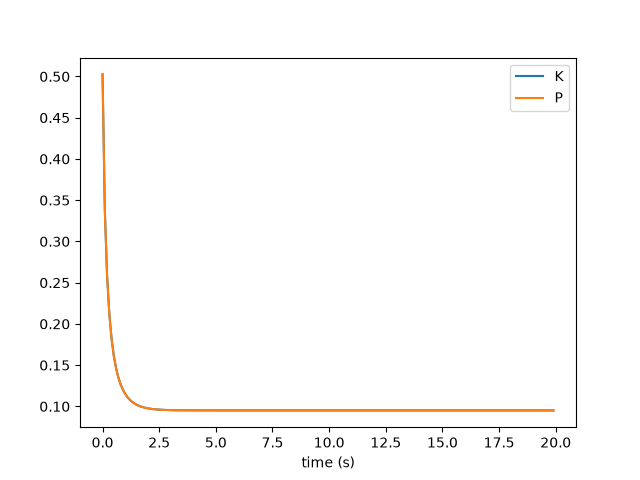
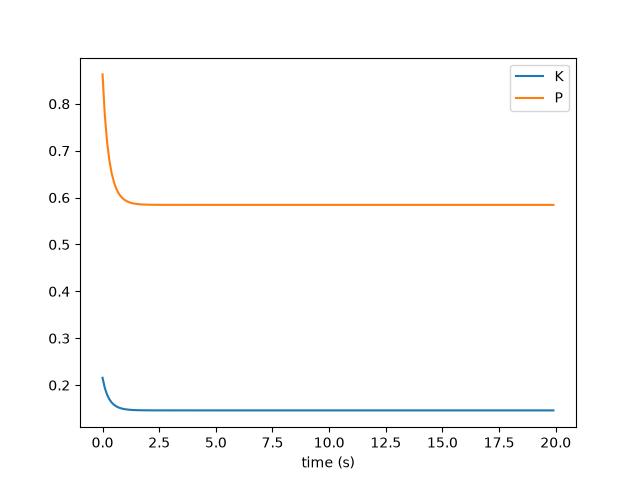
Fuse accelerometer and GPS and add RMSE comparison

diff --git a/kalman.py b/kalman.py
@@ -8,10 +8,14 @@ position = 0.0
 velocity = 0.0
 Kp = 2.0
 Kd = 1.5
-velocity_error = 0.1
-Q = 0.01
-R = 1.0
+filter_velocity = 0.0
+Q = 0.1
+R = 4.0
 Ks = np.zeros(steps)
+accel_bias = 0.05
+accel_velocity = 0.0
+accel_position = 0.0
+accel_positions = np.zeros(steps)
 
 times = np.zeros(steps)
 true_positions = np.zeros(steps)
@@ -27,12 +31,16 @@ for i in range(steps):
     acceleration = Kp * error - Kd * velocity
     velocity += acceleration * dt
     position += velocity * dt
+    sensed_acceleration = acceleration + accel_bias
+    accel_velocity += sensed_acceleration * dt
+    accel_position += accel_velocity * dt
+    accel_positions[i] = accel_position
     times[i] = i * dt
     true_positions[i] = position
-    measurement = position + np.random.normal(0, 1)
+    measurement = position + np.random.normal(0, 2)
     measurements[i] = measurement
-    sensed_velocity = velocity + velocity_error
-    prediction = estimate + sensed_velocity * dt
+    filter_velocity += sensed_acceleration * dt
+    prediction = estimate + filter_velocity * dt
     P = P + Q
     K = P / (P + R)
     estimate = prediction + K * (measurement - prediction)
@@ -42,10 +50,14 @@ for i in range(steps):
     predictions[i] = prediction
     estimates[i] = estimate
 
+print("GPS   RMSE:", np.sqrt(np.mean((measurements - true_positions)**2)))
+print("Accel RMSE:", np.sqrt(np.mean((accel_positions - true_positions)**2)))
+print("Fused RMSE:", np.sqrt(np.mean((estimates - true_positions)**2)))
 
 plt.plot(times, true_positions, label='True Position')
 plt.plot(times, measurements, label='Sensor')
-plt.plot(times, predictions, label='Physics Prediction')
+plt.plot(times, accel_positions, label='Accelerometer only')
+#plt.plot(times, predictions, label='Physics Prediction')
 plt.plot(times, estimates, label='Estimate')
 plt.xlabel("time (s)")
 plt.ylabel("height (m)")
